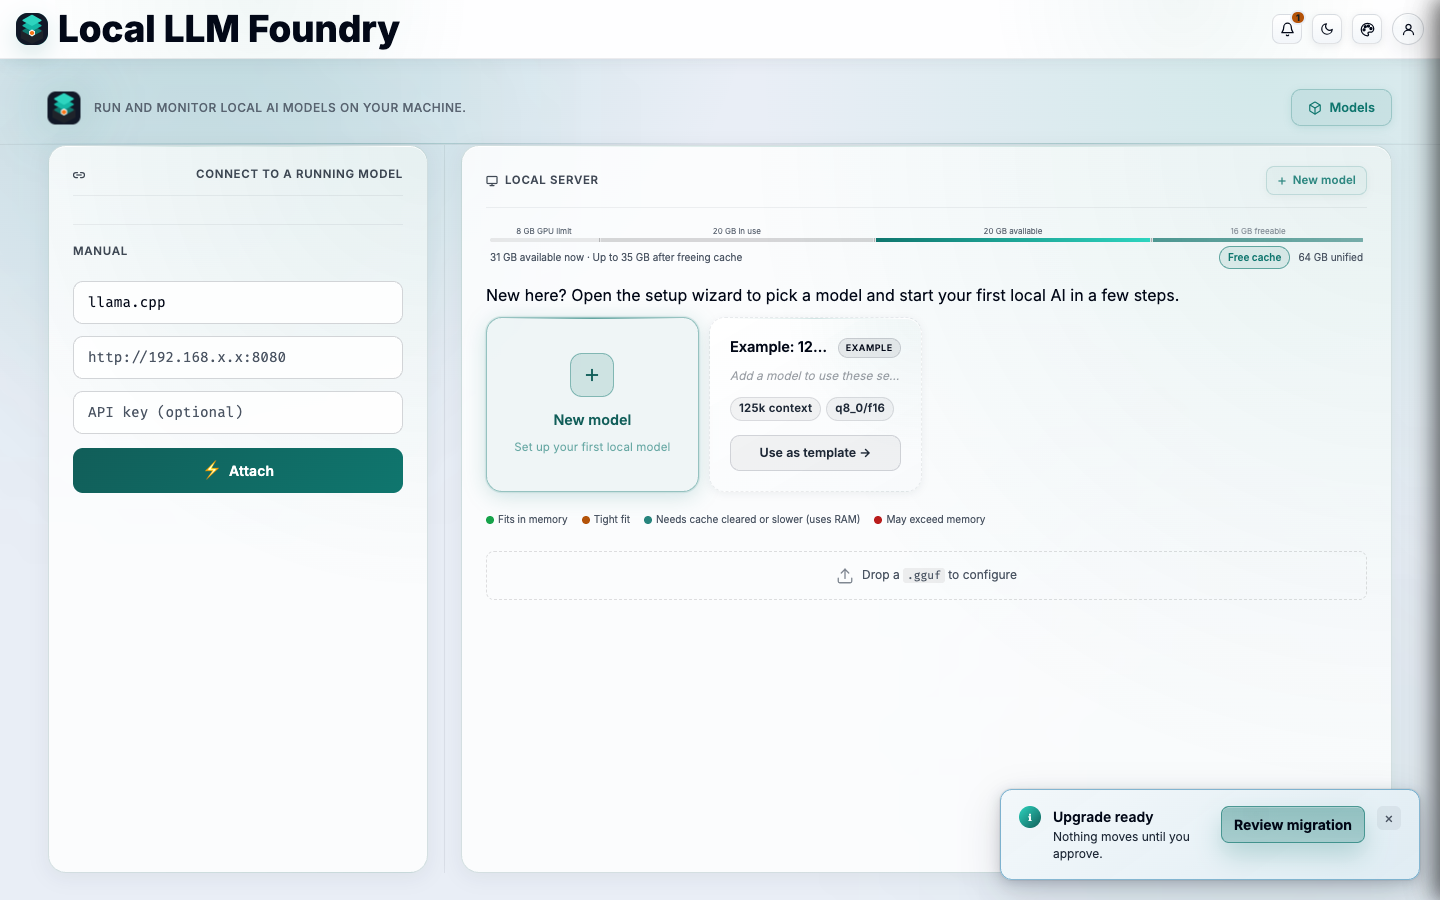
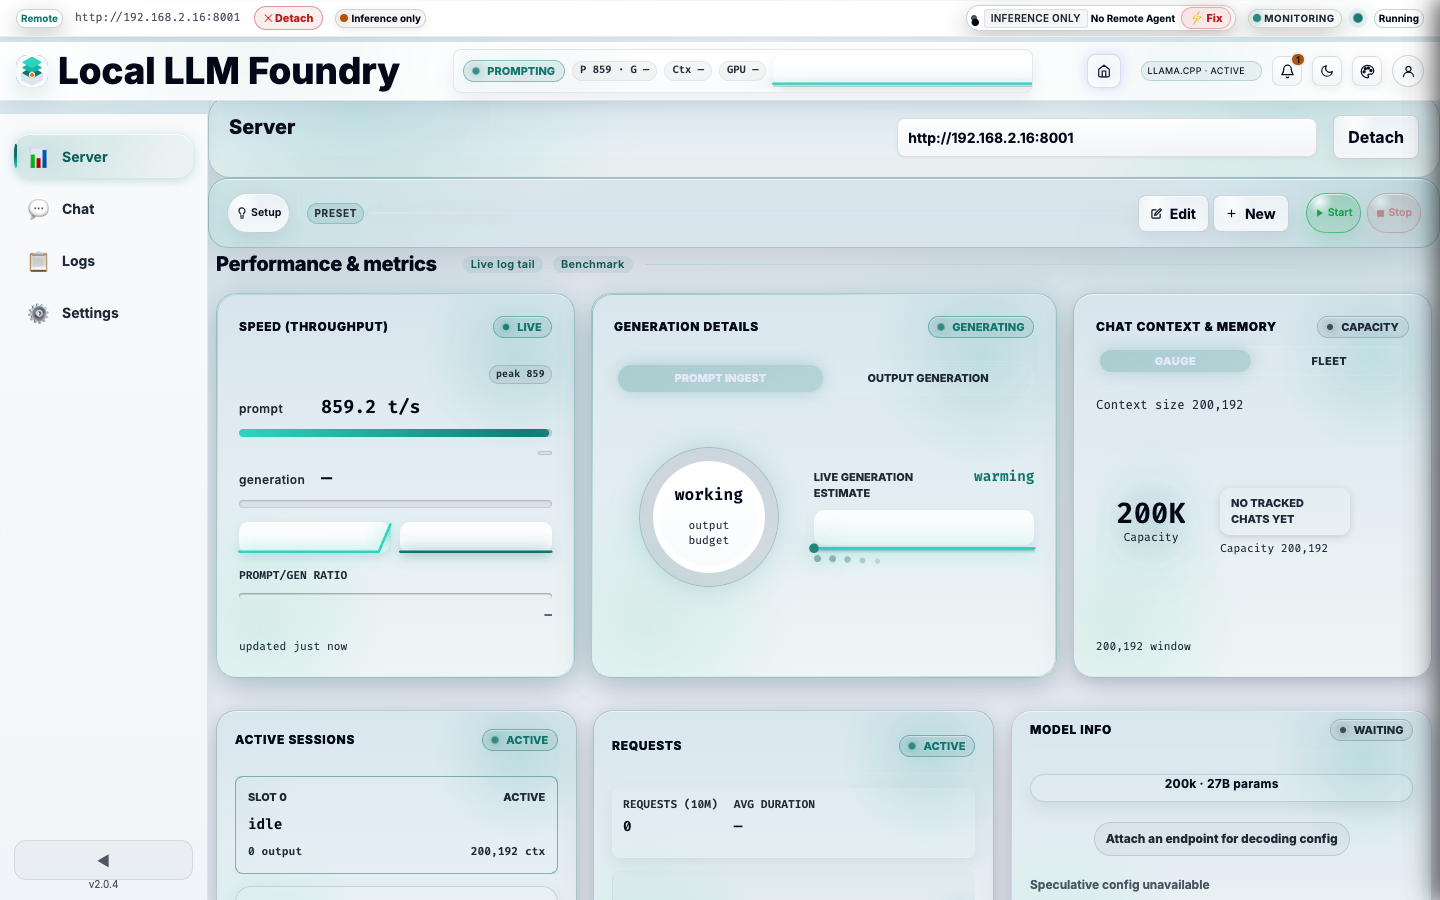
docs(ui): promote fresh rebrand screenshots

diff --git a/README.md b/README.md
@@ -89,6 +89,11 @@ Four accent palettes (Carbon Mint, Cyber Rose, Solar Violet, Lava Core) pair wit
 
 ![Light mode dashboard](docs/screenshots/neutral--appearance-light-dashboard.png)
 
+![Carbon Mint appearance](docs/screenshots/appearance-palette--neutral--carbon-mint.png)
+![Cyber Rose appearance](docs/screenshots/appearance-palette--neutral--cyber-rose.png)
+![Solar Violet appearance](docs/screenshots/appearance-palette--neutral--solar-violet.png)
+![Lava Core appearance](docs/screenshots/appearance-palette--neutral--lava-core.png)
+
 ### TLS, ACME & mTLS
 
 Built-in TLS with ACME (Let's Encrypt) and mTLS for remote agents. Choose No HTTPS, Self-Signed, Bring Your Own Key, or fully automated ACME with DNS-01 and renewal.
